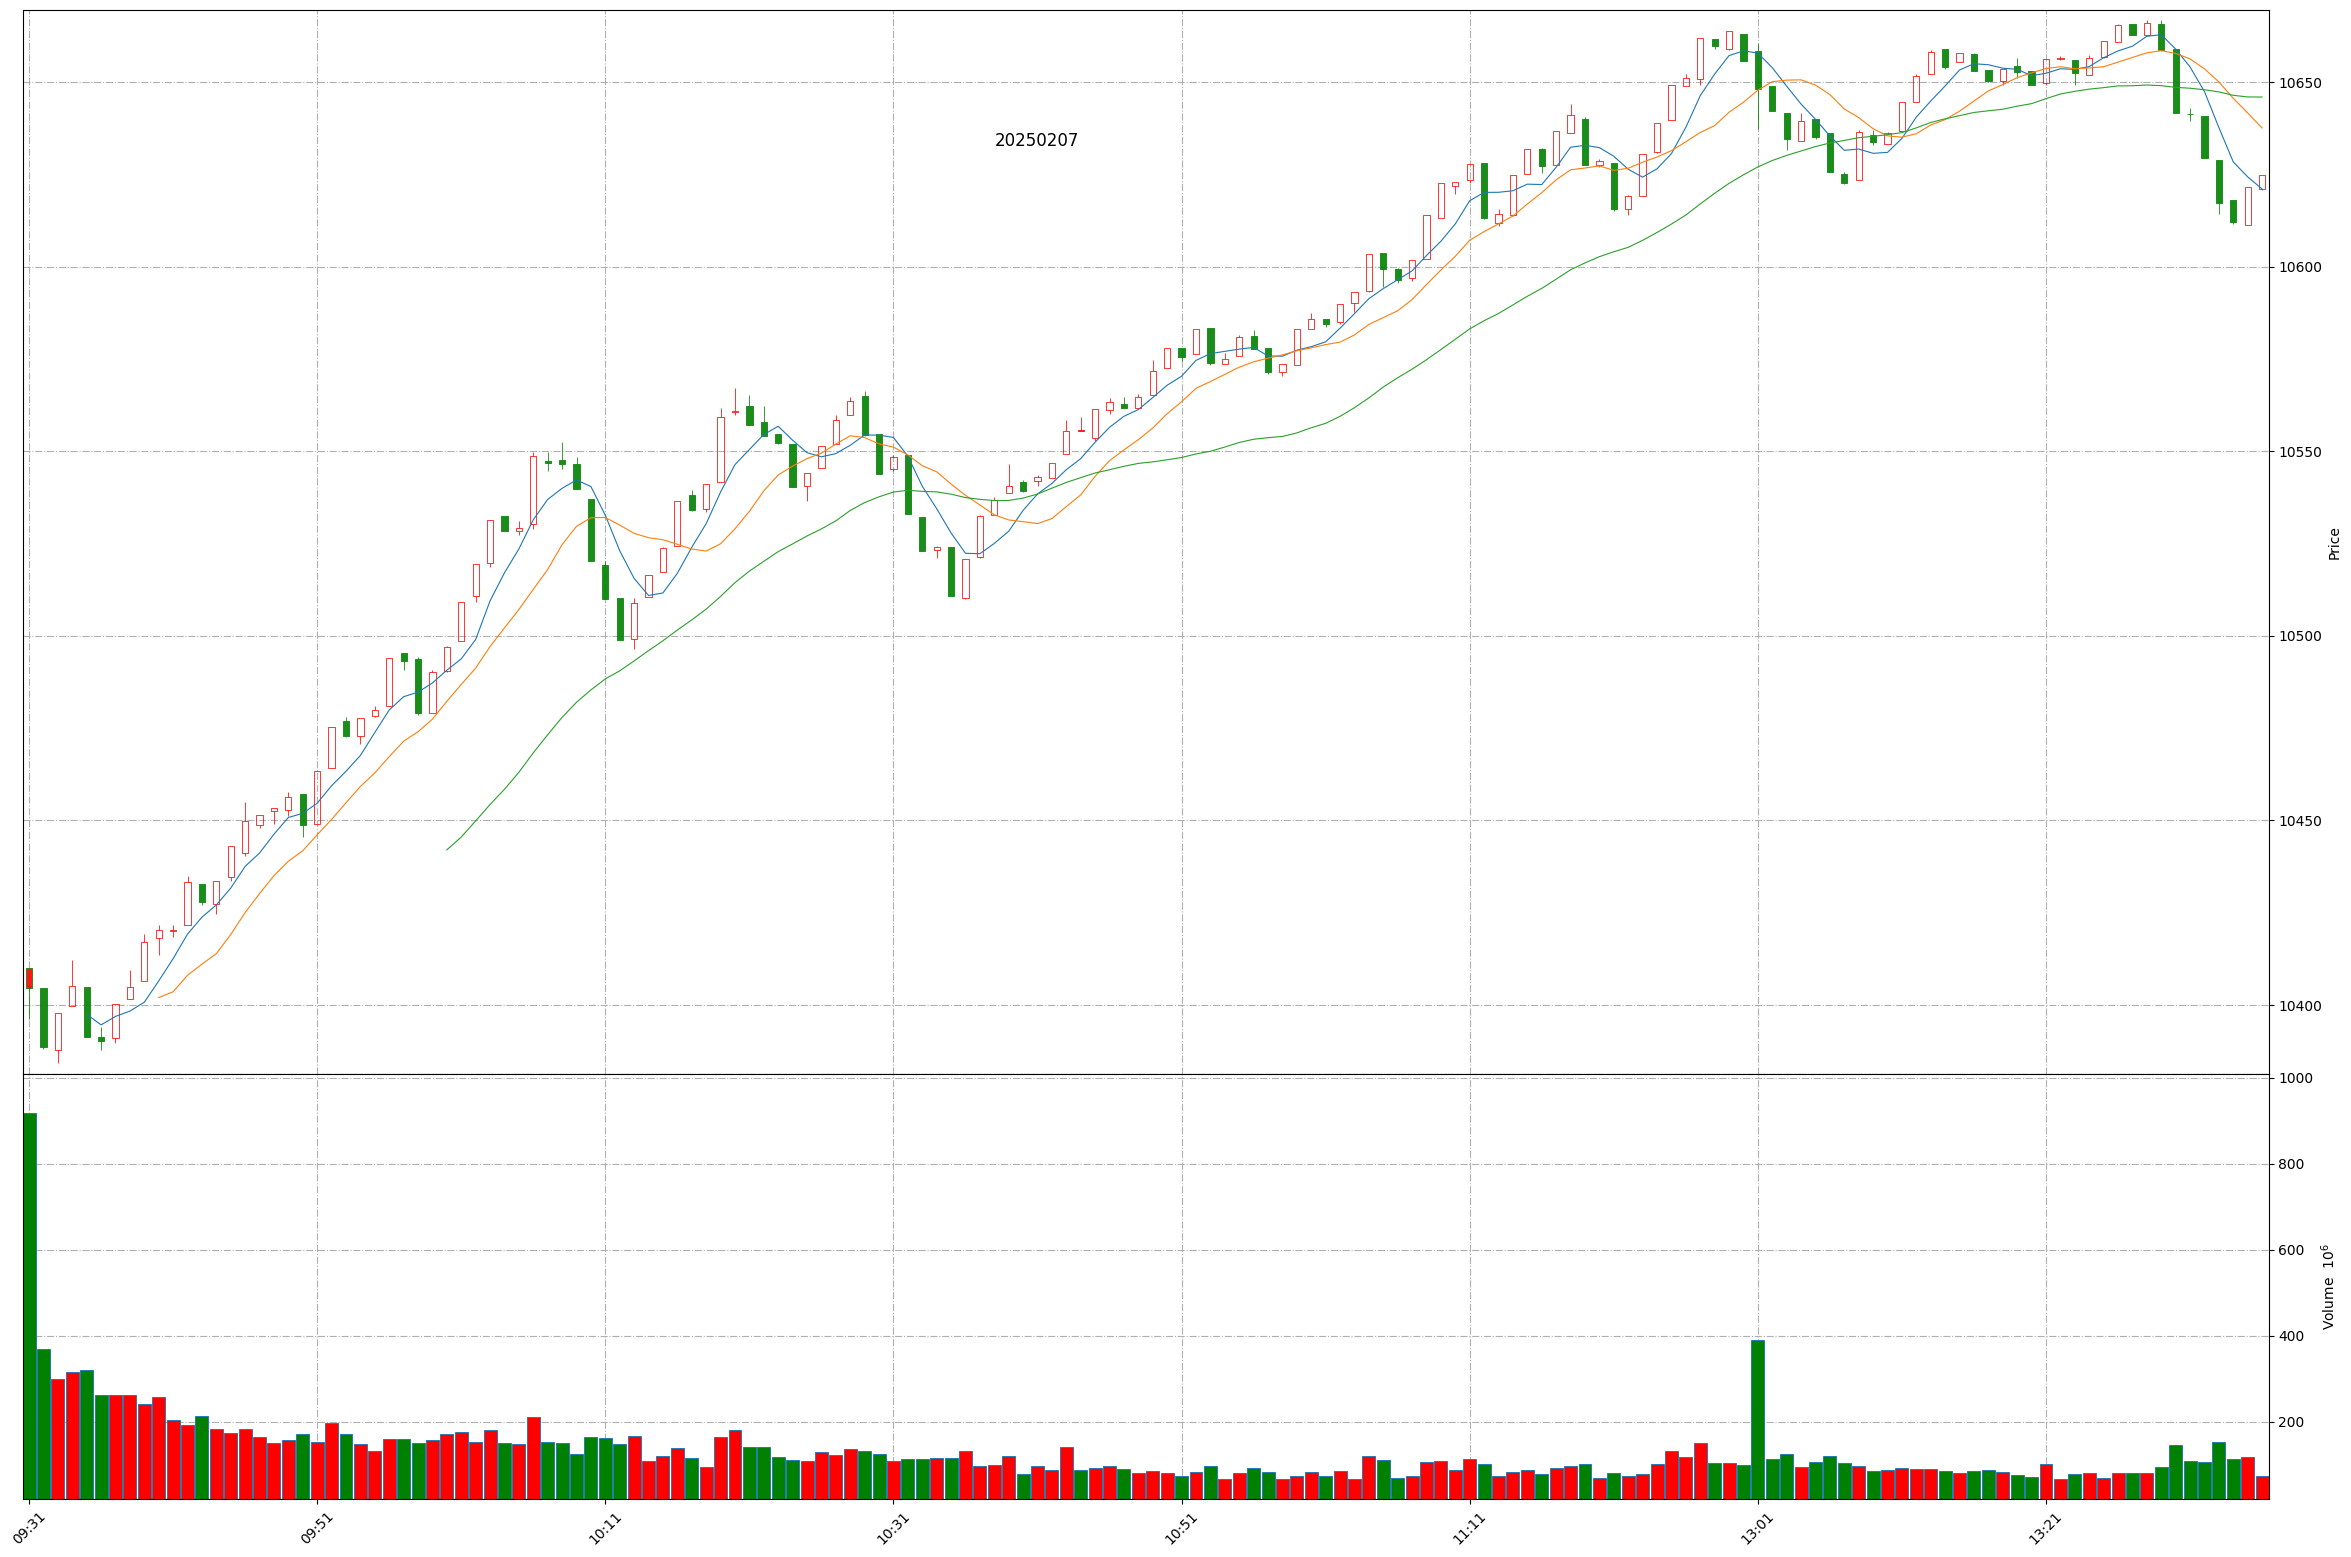
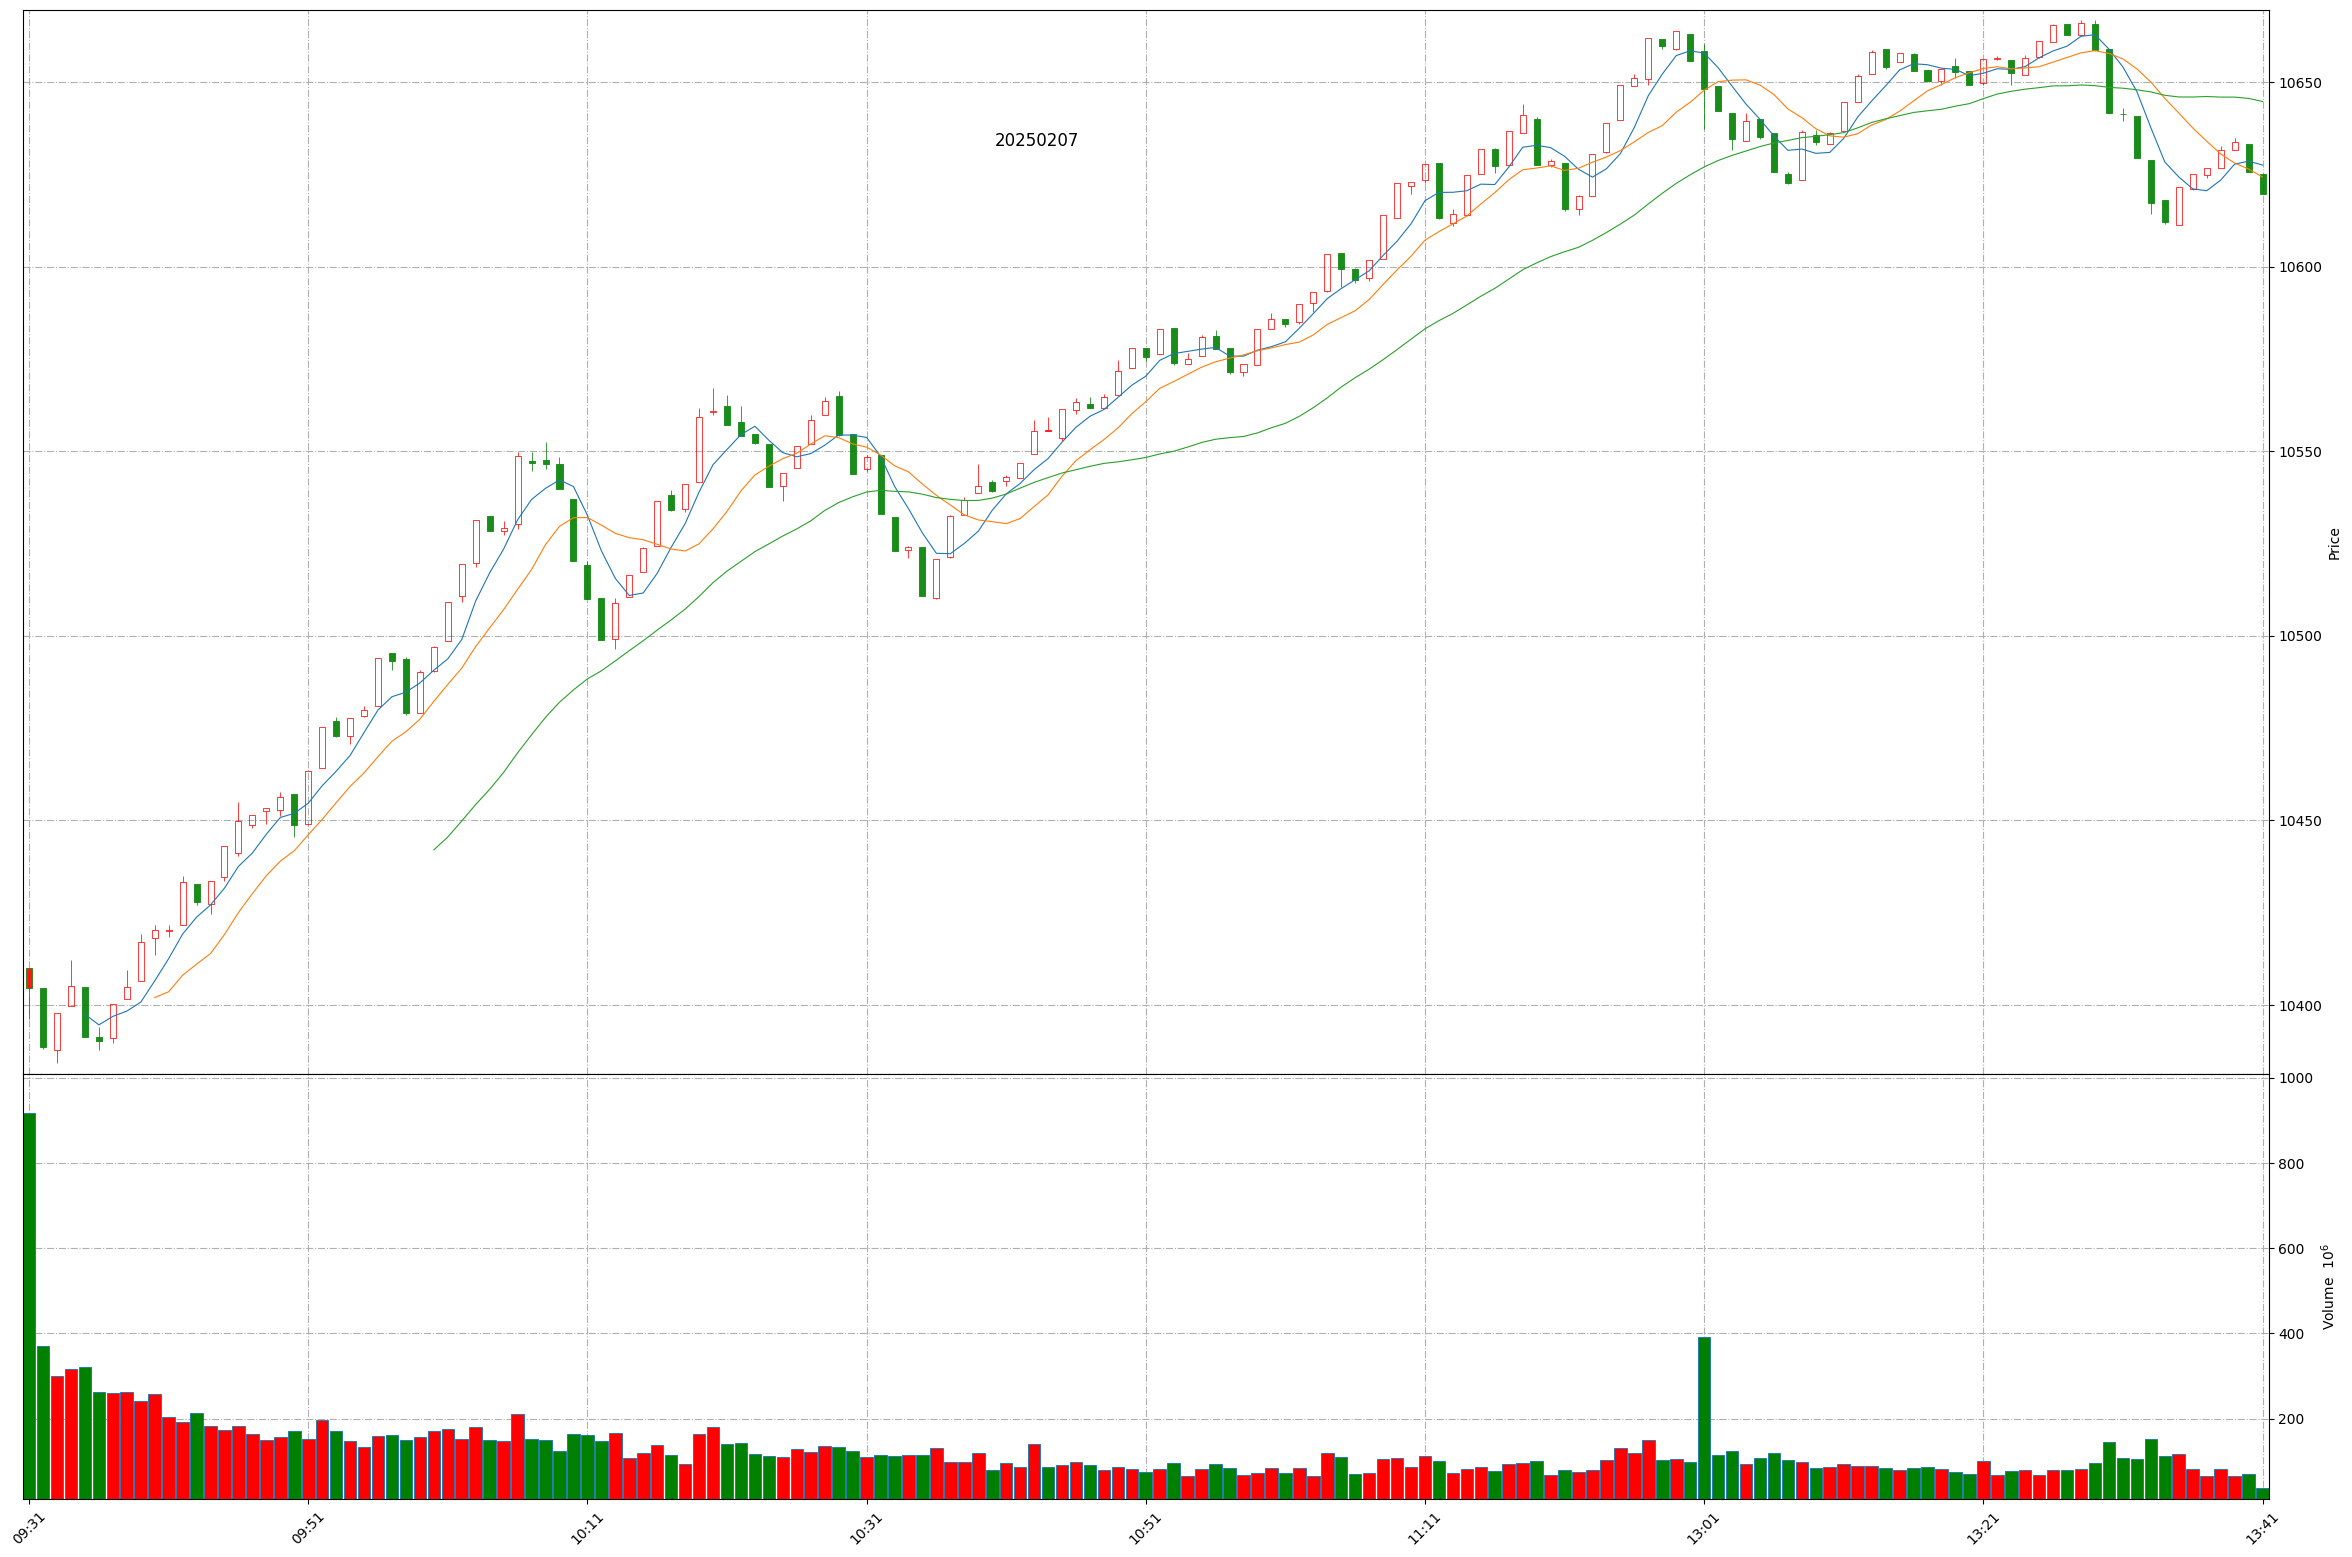
Github action update at 2025-02-07 13:40:32.

diff --git a/README.md b/README.md
@@ -1,11 +1,11 @@
 
 # Daily-A-share-market-quotes 每日 A 股指数（5min 更新）- 20250207
 
-### 上证指数 20250207 13:36
+### 上证指数 20250207 13:40
 ![](./fig/2025/2/20250207-sh000001.png)
 
-### 深证成指 20250207 13:36
+### 深证成指 20250207 13:40
 ![](./fig/2025/2/20250207-sz399001.png)
 
-### 北证50 20250207 13:36
+### 北证50 20250207 13:40
 ![](./fig/2025/2/20250207-bj899050.png)
